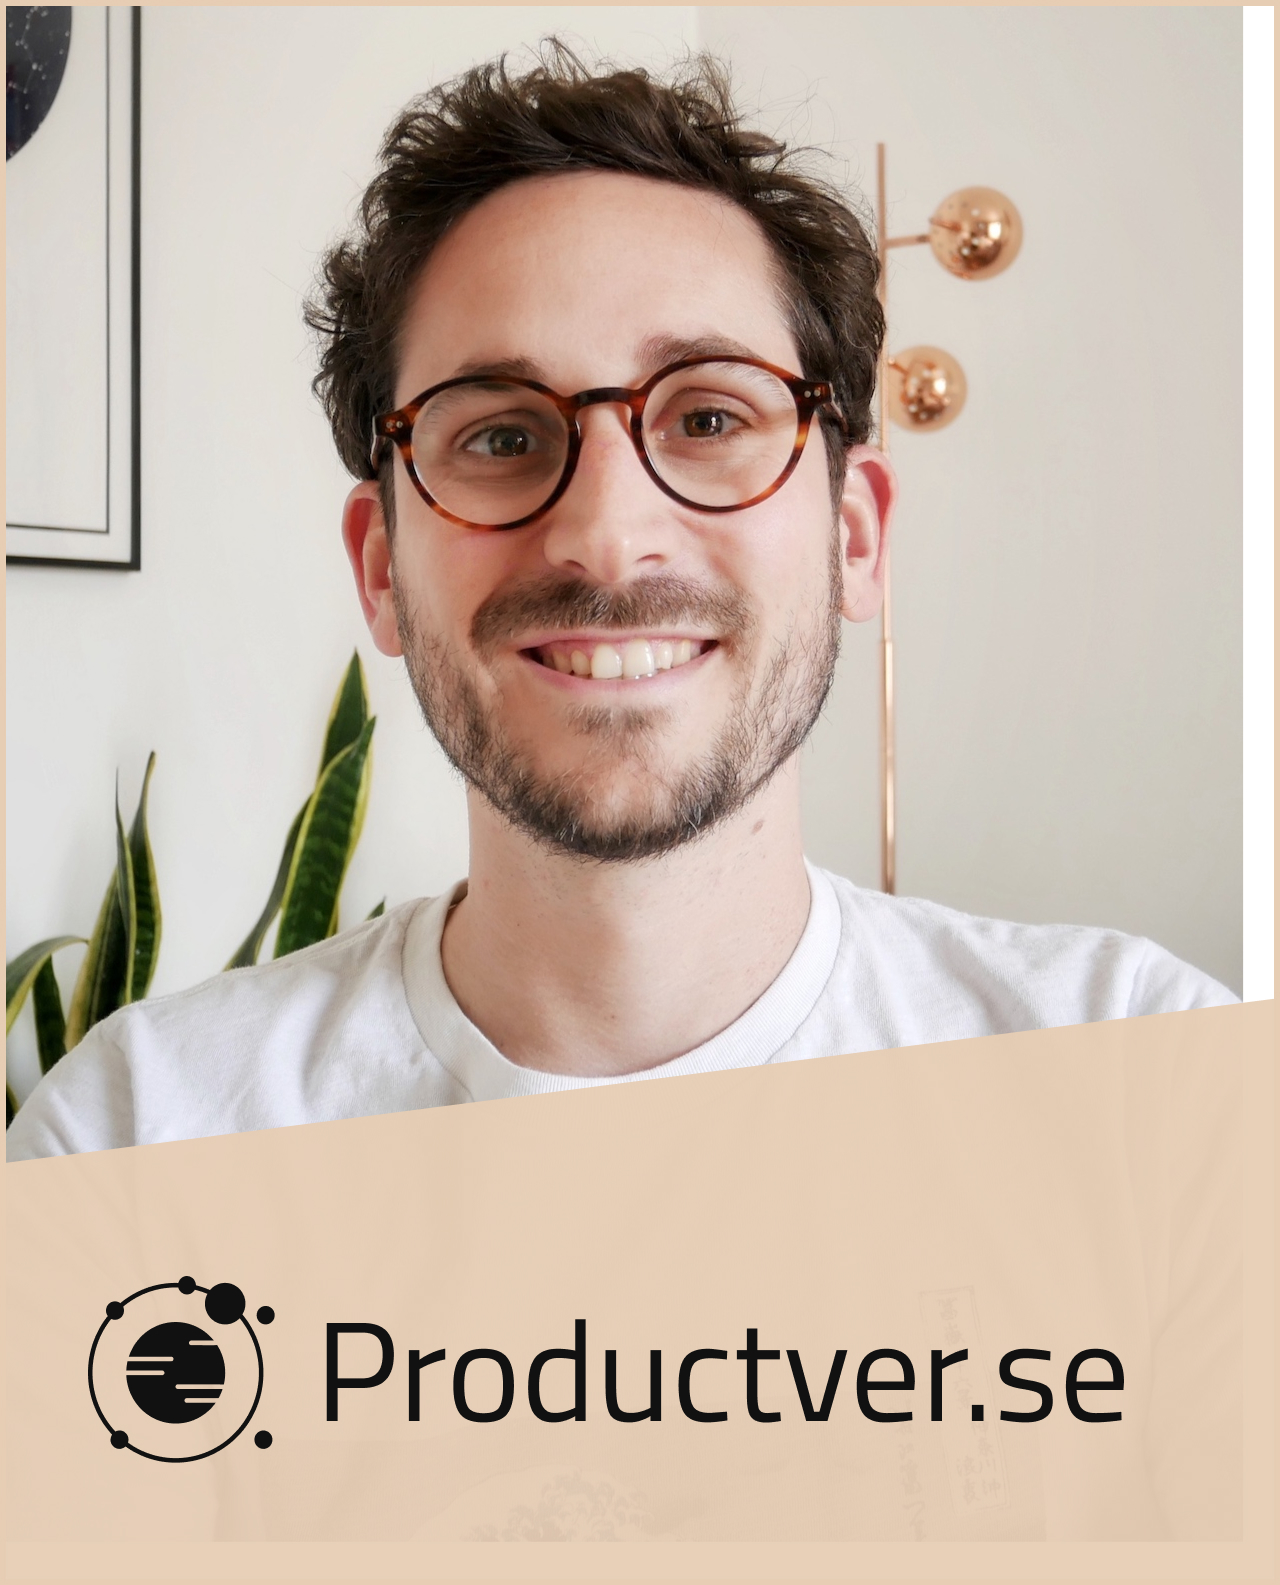
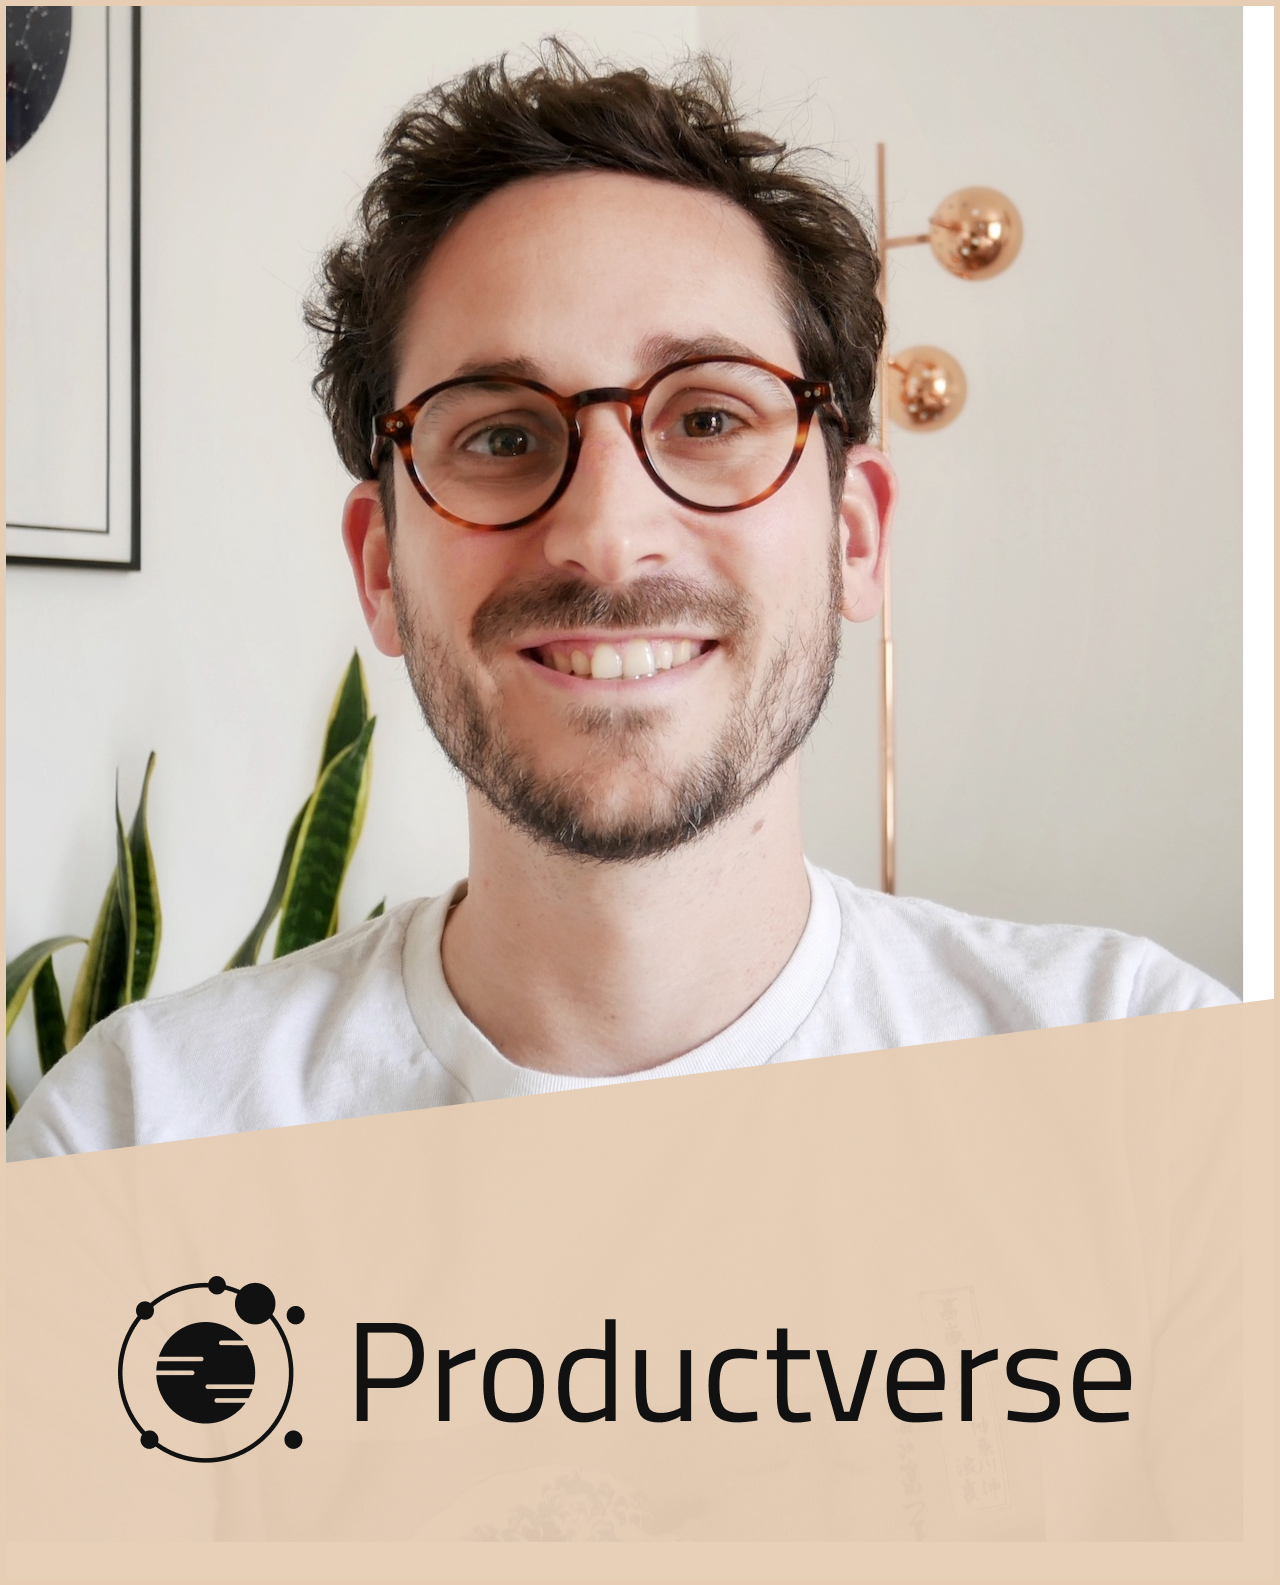
productverse

Changed region(s): [[0.0625, 0.8038, 0.9062, 0.9274]]

diff --git a/index.html b/index.html
@@ -5,7 +5,7 @@
     <meta http-equiv="Content-Type" content="text/html; charset=UTF-8" />
     <meta http-equiv="Content-Security-Policy" content="upgrade-insecure-requests">
     <title>
-      Productver.se - Free Product Management Mentoring by Olivier Courtois
+      Productverse - Free product management office hours & newsletter for tech enthusiasts by Olivier Courtois
     </title>
     <!-- Google Tag Manager -->
 <script>(function(w,d,s,l,i){w[l]=w[l]||[];w[l].push({'gtm.start':
@@ -16,15 +16,15 @@
   <!-- End Google Tag Manager -->
     <meta
       name="description"
-      content="Free product management sessions for tech enthusiasts by Olivier Courtois, Head of Product @ comet. Previously at ManoMano. More content should appear soon"
+      content="Free product management office hours & newsletter for tech enthusiasts by Olivier Courtois, Head of Product @ comet. Previously at ManoMano. More content should appear soon"
     />
     <meta
       property="og:title"
-      content="Productver.se - Free Product Management Mentoring by Olivier Courtois"
+      content="Productverse - Free product management office hours & newsletter for tech enthusiasts by Olivier Courtois"
     />
     <meta
       property="og:description"
-      content="Free product management sessions for tech enthusiasts by Olivier Courtois, Head of Product @ comet. Previously at ManoMano. More content should appear soon"
+      content="Free product management office hours & newsletter for tech enthusiasts by Olivier Courtois, Head of Product @ comet. Previously at ManoMano. More content should appear soon"
     />
     <meta property="og:image" content="./img/ProductVerseSharing.jpg" />
     <meta property="og:type" content="website" />
@@ -349,7 +349,7 @@
                 </div>
                 <div class="column">
                   <div class="heading heading-secondary" style="color: #fff;">
-                    <h3>Mentoring session formats</h3>
+                    <h3>Mentoring formats</h3>
                   </div>
                   <div class="content" style="color: #fff;">
                       <!-- <div class="mentoring-card" style="padding:8px; background-color: #e6cdb4; border: 1px, #f9f7f5; border-radius: 4px; color:#111111;">
